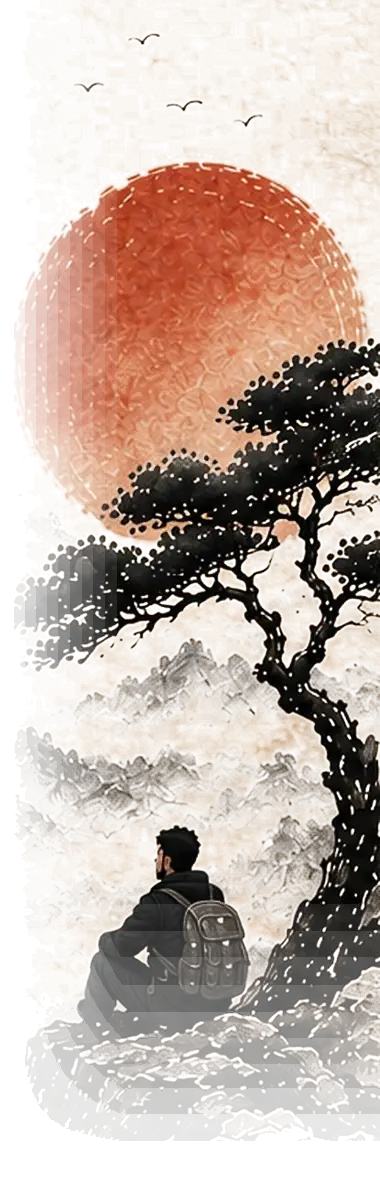
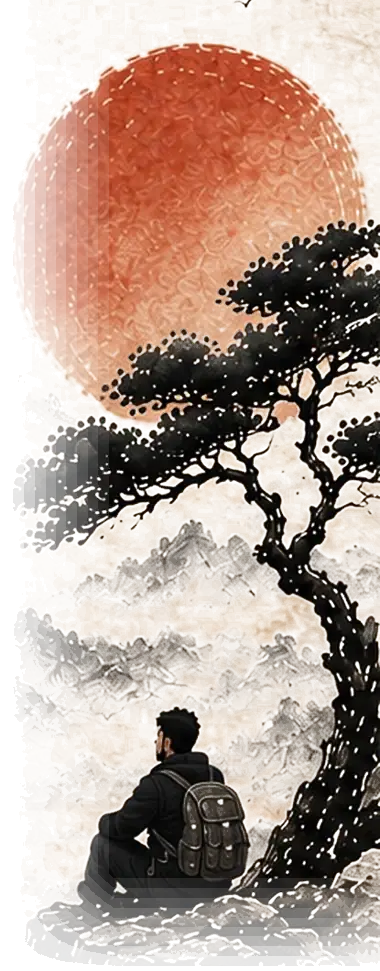
Lift the figure clear of the first button
Reported from the phone: the man was cut off, sitting behind the LinkedIn
link. He was: the panel ran 654px tall against a button that starts at
504, so the rock and his legs were behind it and the fade was doing the
rest.

Two changes rather than one, because shrinking the art alone would have
made him a detail. The crop loses 130px of sky above the sun and stops
just below the rock he sits on, so he sits higher in the panel to begin
with; and the panel is 212px rather than 228. Measured on iPhone after:
the panel ends at 507 and the button starts at 504, so the only thing
crossing that line is the last of the rock, already faded out.

The bottom fade tightens to the final tenth to match -- with the crop
ending at the rock rather than 200px below it, the old 22% ramp was
dissolving the figure himself.

diff --git a/how-this-was-made/index.html b/how-this-was-made/index.html
@@ -1599,7 +1599,7 @@ a:active,button:active{opacity:.72}
 <div class="cf-num"><b>69</b><span>checks before a push</span></div>
 <div class="cf-num"><b>15</b><span>github workflows</span></div>
 <div class="cf-num"><b>65,853</b><span>lines behind it</span></div>
-<div class="cf-num"><b>2,092</b><span>commits</span></div>
+<div class="cf-num"><b>2,094</b><span>commits</span></div>
 </div>
 <h2 id="journey">What happens when I publish</h2>
 <p class="cf-note">A post is a file. Everything a reader sees is built from it, which means the pages can always be thrown away and made again &mdash; and are, on every publish. Here is the whole trip a post takes, from the file to your screen.</p>

diff --git a/connect/index.html b/connect/index.html
@@ -203,10 +203,10 @@ a { color: inherit; text-decoration: none; -webkit-tap-highlight-color: transpar
   position: absolute;
   z-index: -1;
   top: -6px;
-  right: -14px;
-  width: 52%;
-  max-width: 228px;
-  aspect-ratio: 380 / 1190;
+  right: -2px;
+  width: 50%;
+  max-width: 212px;
+  aspect-ratio: 380 / 970;
   background: url("/connect/ink-scene.webp") 0 0 / contain no-repeat;
   /* The two fades -- mist at the left edge, gone before the first button --
      are baked into the image rather than applied as CSS masks. Two mask
